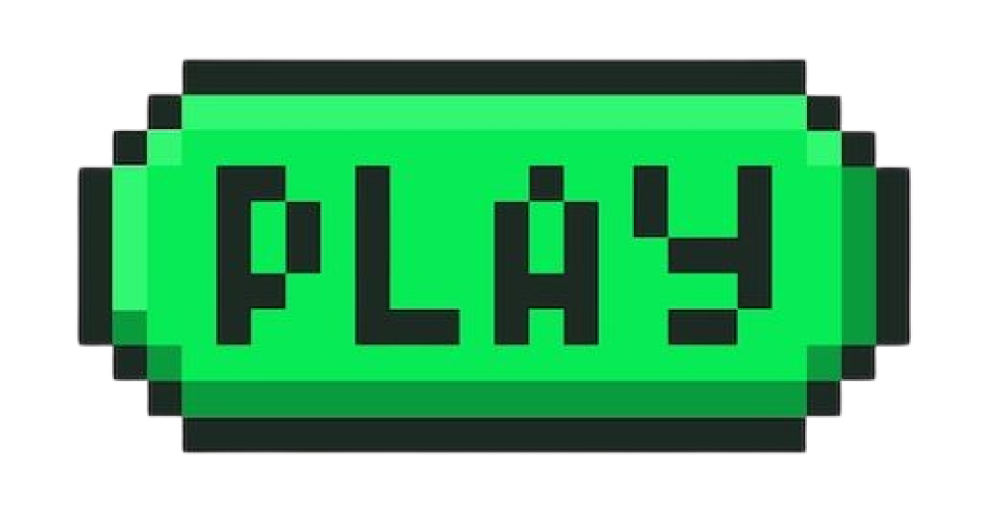
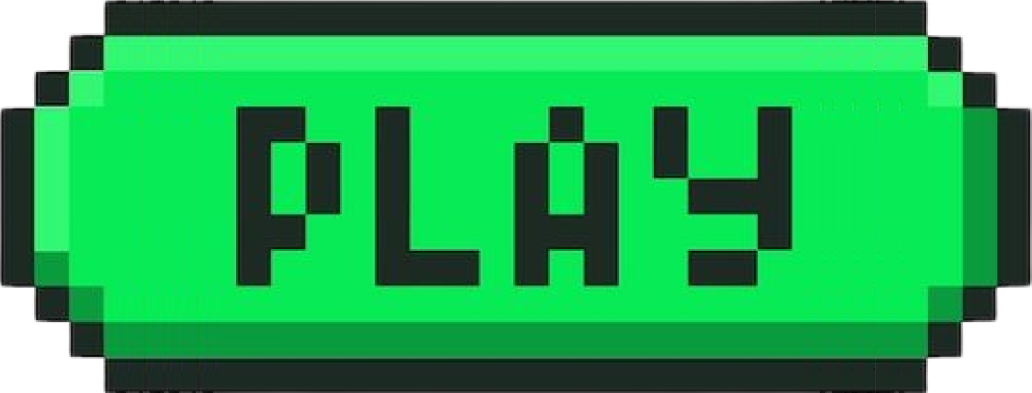
feat : play-btn, home 버튼 수정

diff --git a/test_code/gohome.py b/test_code/gohome.py
@@ -34,7 +34,7 @@ def load_images():
         background = pygame.image.load('image/start_background.png')
         background = pygame.transform.scale(background, (1280, 832))
         play = pygame.image.load('image/play-btn.png')
-        play = pygame.transform.scale(play, (251, 140))
+        play = pygame.transform.scale(play, (300, 100))
     except pygame.error as e:
         print(f"이미지를 불러올 수 없습니다: {e}")
         pygame.quit()
@@ -173,7 +173,7 @@ def finish_message(message):
 def show_result_screen(score_result):
     result_x = (1280 - 718) // 2 + 60
     result_y = (832 - 667) // 2 + 50
-    home_button = pygame.image.load('image/homebutton.png')
+    home_button = pygame.image.load('image/home.png')
     home_button = pygame.transform.scale(home_button, (45, 45))
     running = True
     while running:
